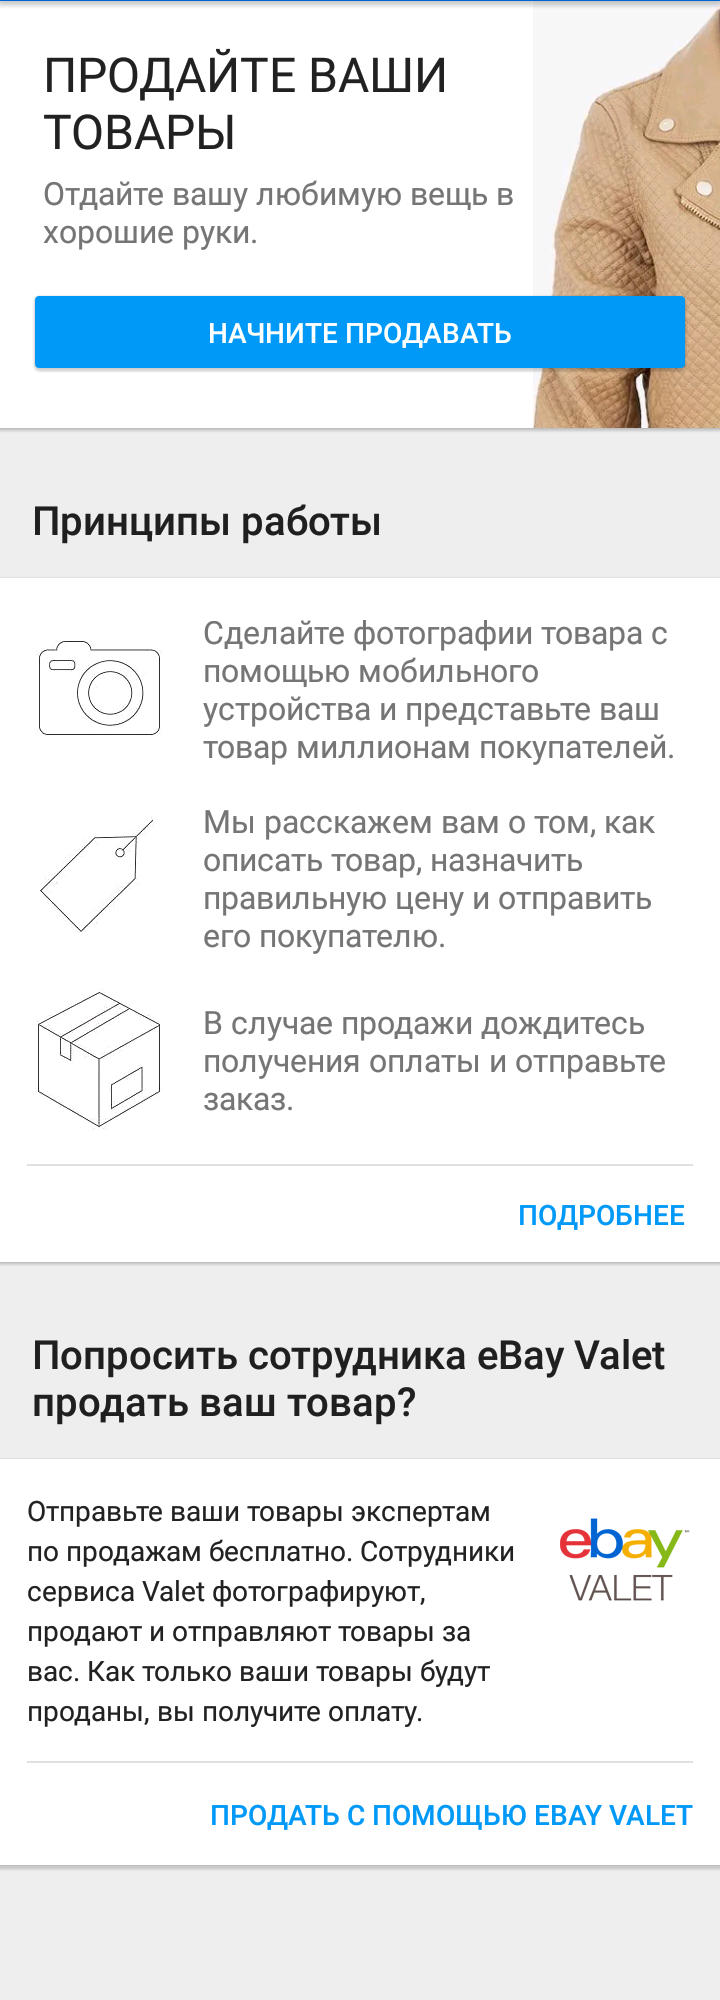
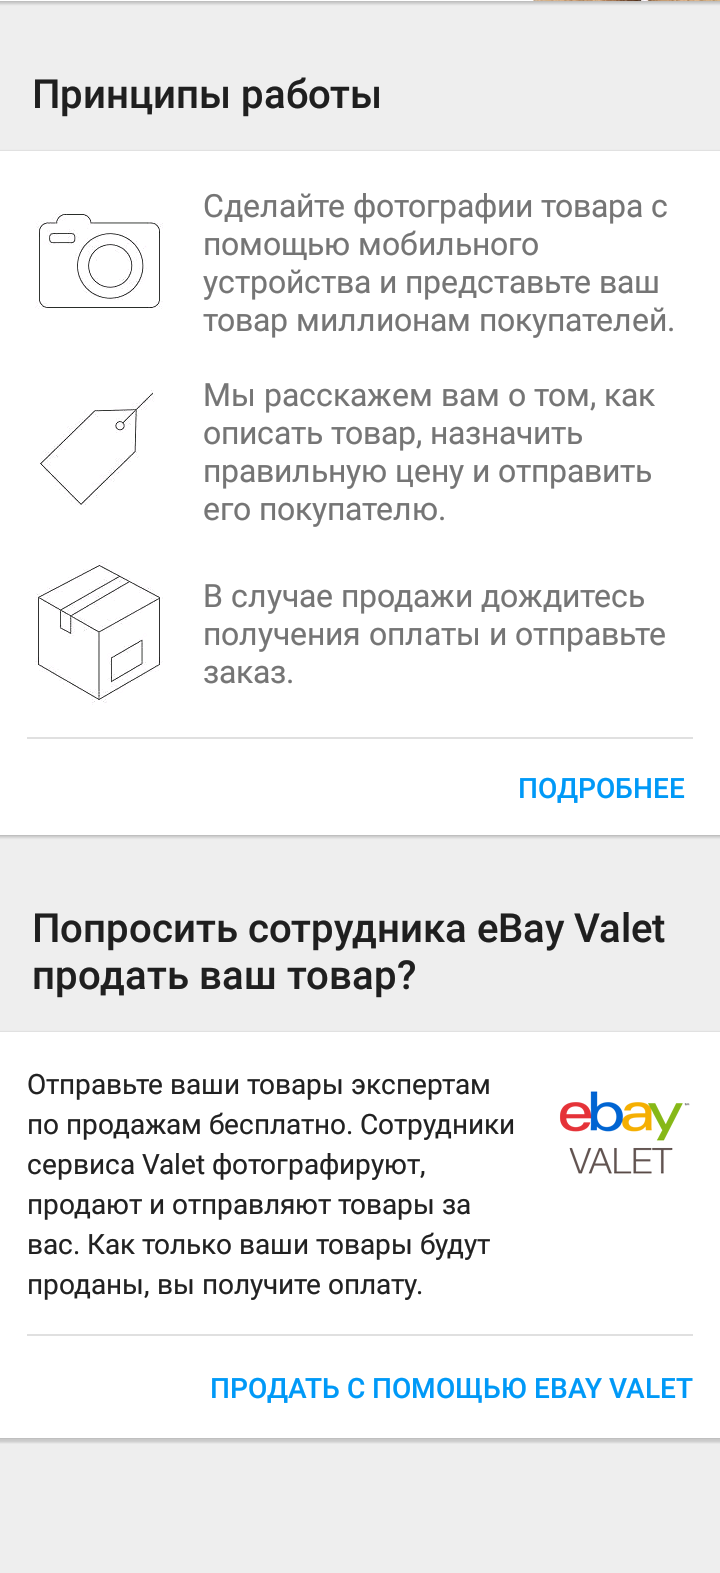
Add sell button

Changed region(s): [[0.0, 0.2492, 1.0, 0.9345], [0.0306, 0.0, 1.0, 0.2181], [0.0917, 0.3115, 0.2139, 0.4673]]

diff --git a/App/Containers/SaleScreen.js b/App/Containers/SaleScreen.js
@@ -1,14 +1,12 @@
 import React from 'react'
-import { ScrollView, KeyboardAvoidingView, Button } from 'react-native'
+import { ScrollView, KeyboardAvoidingView } from 'react-native'
 import { connect } from 'react-redux'
-import {Actions} from 'react-native-router-flux'
-import I18n from 'react-native-i18n'
+import { Actions } from 'react-native-router-flux'
 import SellMock from '../Components/SellMock'
-
+import SellButtonMock from '../Components/SellButtonMock'
 import styles from './Styles/SaleScreenStyle'
 
 class SaleScreen extends React.Component {
-
   onPress = () => {
     Actions.photoScreen()
   }
@@ -17,17 +15,12 @@ class SaleScreen extends React.Component {
     return (
       <ScrollView style={styles.container}>
         <KeyboardAvoidingView behavior='position'>
+          <SellButtonMock onPress={this.onPress} />
           <SellMock />
-          <Button
-            style={styles.button}
-            onPress={this.onPress}
-            title={I18n.t('start_selling')}
-          />
         </KeyboardAvoidingView>
       </ScrollView>
     )
   }
-
 }
 
 const mapStateToProps = (state) => {

diff --git a/App/Components/SellButtonMock.js b/App/Components/SellButtonMock.js
@@ -1,0 +1,22 @@
+import React from 'react'
+import { TouchableHighlight, Image } from 'react-native'
+import { Images } from '../Themes'
+import LayoutHelper from '../Helpers/LayoutHelper'
+import styles from './Styles/SellButtonMockStyle'
+
+export default class SellButtonMock extends React.Component {
+  render () {
+    let imageSize = this.state ? this.state.imageSize : { width: null, height: null }
+    const { onPress } = this.props
+
+    return (
+      <TouchableHighlight onPress={onPress} style={styles.container}>
+        <Image
+          onLayout={e => LayoutHelper(e, 428, this)}
+          style={imageSize}
+          source={Images.sell_button}
+        />
+      </TouchableHighlight>
+    )
+  }
+}

diff --git a/App/Themes/Images.js b/App/Themes/Images.js
@@ -2,6 +2,7 @@
 const images = {
   main_middle_mock: require('../Images/main_com.ebay.mobile.png'),
   sell_mock: require('../Images/sell_ebay.png'),
+  sell_button: require('../Images/sell_button_ebay.png'),
   sidebar_top_mock: require('../Images/sidebar_top.png'),
   logo: require('../Images/ebay_logo.png'),
   logo_white: require('../Images/ebay_logo_white.png'),

diff --git a/App/Components/SellMock.js b/App/Components/SellMock.js
@@ -10,7 +10,7 @@ export default class SellMock extends React.Component {
     return (
       <View style={styles.container}>
         <Image
-          onLayout={e => LayoutHelper(e, 2000, this)}
+          onLayout={e => LayoutHelper(e, 1573, this)}
           source={Images.sell_mock}
           style={imageSize}
         />

diff --git a/App/Containers/Styles/SaleScreenStyle.js b/App/Containers/Styles/SaleScreenStyle.js
@@ -6,9 +6,5 @@ export default StyleSheet.create({
   container: {
     marginTop: Metrics.navBarHeight,
     backgroundColor: Colors.background
-  },
-  button: {
-    backgroundColor: Colors.ebay_blue,
-    color: Colors.snow
   }
 })

diff --git a/App/Components/Styles/SellButtonMockStyle.js b/App/Components/Styles/SellButtonMockStyle.js
@@ -1,0 +1,9 @@
+import { StyleSheet } from 'react-native'
+import { Metrics } from '../../Themes/'
+
+export default StyleSheet.create({
+  container: {
+    flex: 1,
+    paddingTop: Metrics.titlePadding
+  }
+})
